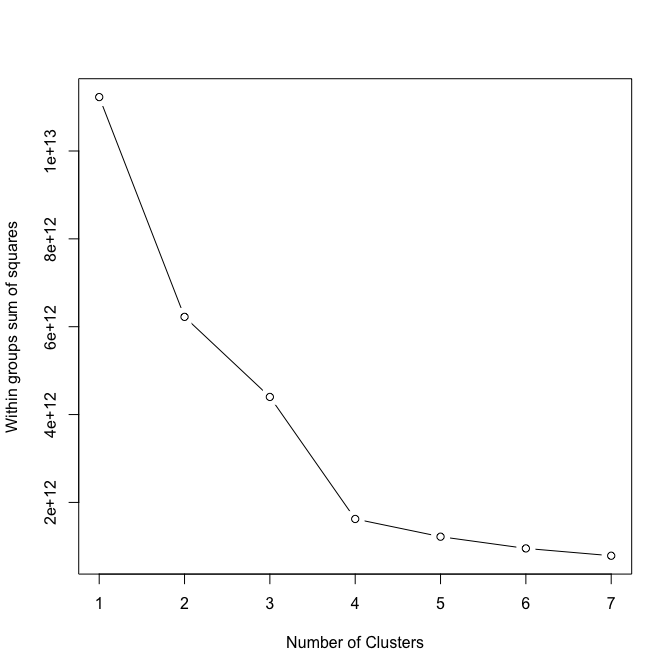
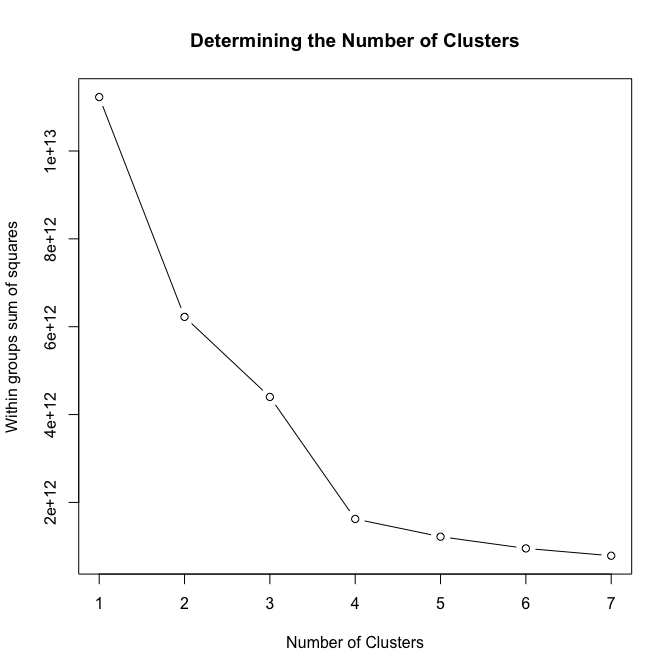
tables programming

Changed region(s): [[0.2812, 0.0312, 0.7812, 0.0938]]

diff --git a/Faculty_Classification.md b/Faculty_Classification.md
@@ -2,18 +2,25 @@ Faculty Classification
 ================
 Chad Evans
 
-Built with R version 3.3.2. Last run on 2017-08-29.
+Built with R version 3.3.2. Last run on 2017-08-30.
 
 -   [Configure](#configure)
     -   Directories
     -   Libraries
 -   [Munge](#munge)
--   [Exploratory Analysis](#exploratory-analysis)
+    -   Subset
     -   Missing Data
+    -   Variables
     -   Imputation
+    -   Data
 -   [Cluster Analysis](#cluster-analysis)
-    -   K-means Clustering Algorithm
--   [Tabulations](#tabulations)
+    -   Determining the Number of Clusters
+    -   K-means Clustering
+-   Tabulations
+    -   [Demography Table](#demography-table)
+    -   [Institution Table](#institution-table)
+    -   [Department Table](#departmental-table)
+    -   [Employment Table](#employment-table)
 
 Configure
 ---------
@@ -29,41 +36,16 @@ source(file.path(Munge, "HERI_vars.R"))
 ```
 
 ``` r
-df<-df %>% select(one_of(c(ADMINVARS,WORKVARS,SALARYVARS,INSTVARS,BACKVARS,ATTITUDEVARS,OTHERVARS,PROFDEVVARS, FACTORVARS, PRODUCTIVITYVARS,STRESSVARS,SATISVARS,PTVARS)))
-
-OMIT<-c(SVYVARS,INSTVARS,DEMGVARS,PTVARS,OTHERS)
-```
-
-``` r
+raw_n<-nrow(df)
 df<-df %>% filter(!(TENURE=="Tenured")) # reduces from 8980 to 8450
+filtered_n<-nrow(df)
+#The original data had `r raw_n` observations.  After removing part-time faculty with Tenure, we have a total of #`r filtered_n`.  This is a decrease of `r (raw_n-filtered_n)/raw_n`.
 ```
-
-``` r
-lwdata<-df %>% select(-one_of(OMIT)) %>% na.omit()
-save(lwdata, file=file.path(Private_Cache,"lwdata.RData"))
-
-#Imputing takes 2-3 hours
-tempData<-df %>% select(-one_of(OMIT)) %>% mice(m=1,maxit=50,meth='pmm',seed=500)
-save(tempData, file=file.path(Private_Cache,"tempData.RData"))
-IData <- complete(tempData,1)
-save(IData, file=file.path(Private_Cache,"IData.RData"))
-```
-
-Data
-----
-
-``` r
-load(file.path(Private_Cache,"IData.RData")) # Singly imputed data
-data<-IData
-```
-
-Exploratory Analysis
---------------------
 
 ### Missing Data
 
 ``` r
-miss_pct<-df %>% select(-one_of(OMIT)) %>%
+miss_pct<-df %>%
   map_dbl(function(x) { round((sum(is.na(x)) / length(x)) * 100, 1) })
 data.frame(miss=miss_pct, var=names(miss_pct), row.names=NULL) %>%
 ggplot(aes(x=reorder(var, -miss), y=miss)) +
@@ -72,19 +54,45 @@ labs(x='', y='% missing', title='Percent missing data by feature') +
 theme(axis.text.x=element_text(angle=90, hjust=1))
 ```
 
+![](graphs/unnamed-chunk-1-1.png)
+
 The missingness in these data is very low. About 20 variables have 3-10 percent missing. The vast majority have trivial amounts of missingness. When applying listwise deletion, 100 percent of observations are lot. This is because there are so many covariates and the missingness really adds up. It is still worth considering listwise deletion. We'll compare the results with a dataset that has been singly imputated, in order to capitalize on all available information. Single imputation is less concerning here because we are not interested in standard errors. We just are trying to induce a classification schema.
 
-Analysis
---------
+``` r
+df<-df %>% select(one_of(c(ADMINVARS,WORKVARS,SALARYVARS,INSTVARS,BACKVARS,ATTITUDEVARS,OTHERVARS,PROFDEVVARS, FACTORVARS, PRODUCTIVITYVARS,STRESSVARS,SATISVARS,PTVARS)))
 
-Determine the number of Clusters.
----------------------------------
+HIGHMISS<-labels(which(miss_pct>50))
+OMIT<-c(ADMINVARS,PTVARS)
+```
 
-I used the "elbow method"
+``` r
+#Imputing takes 2-3 hours
+tempData<-df %>% select(-one_of(OMIT)) %>% mice(m=1,maxit=50,meth='pmm',seed=500)
+#save(tempData, file=file.path(Private_Cache,"tempData.RData"))
+IData <- complete(tempData,1)
+save(IData, file=file.path(Private_Cache,"IData.RData"))
+```
+
+Data
+----
+
+``` r
+load(file.path(Private_Cache,"IDataOLD.RData")) # Singly imputed data
+data<-IData
+```
+
+Cluster Analysis
+----------------
 
 ``` r
 data<-data.frame(model.matrix(~ ., data=data , contrasts.arg = lapply(data[,sapply(data, is.factor)], contrasts, contrasts=FALSE)))
 ```
+
+Some claim it is ineffective to convert categorical predictors into binaries. In any case, that is what we do here. This chapter is purely exploratory, so I am not concerned.
+
+### Determining the number of Clusters.
+
+I used the "elbow method".
 
 ``` r
 wssplot <- function(data, nc=15, seed=1234){
@@ -93,22 +101,21 @@ wssplot <- function(data, nc=15, seed=1234){
     set.seed(seed)
     wss[i] <- sum(kmeans(data, centers=i)$withinss)
   }
-  plot(1:nc, wss, type="b", xlab="Number of Clusters", ylab="Within groups sum of squares")
+  plot(1:nc, wss, type="b", xlab="Number of Clusters", ylab="Within groups sum of squares", main="Determining the Number of Clusters")
 }
-
 wssplot(data, nc=7) # put in # of clusters here
 ```
 
 ![](graphs/Determining_Number_Clusters-1.png)
 
-Cluster Analysis
-----------------
+The elbow plot suggests that four clusters best describe these data. I'll go with four.
 
-For both imputed data and listwise deletion, elbow plots suggests four or five clusters. I'll go with four.
+### K-Means Clustering
 
 ``` r
-# data<-scale(data) CONSIDER WHEATHER TO SCALE
-kmeans.obj<- data %>% kmeans(4, nstart = 20)
+d<-data[,-1] # git rid of the intercept (no variation, convergence issues)
+d<-scale(d)
+kmeans.obj<- d %>% kmeans(4, nstart = 20)
 df$cluster<-kmeans.obj$cluster
 ```
 
@@ -120,16 +127,23 @@ source(file.path(Munge, "03_Recode_HERI.R"))
 ```
 
 ``` r
-table(df$cluster)
+clusters<-table(df$cluster)
+print(clusters)
 ```
 
     ## 
     ##    1    2    3    4 
-    ## 3855   10 1093 4022
+    ## 2558 2242 3213  967
 
 ``` r
-Clusternames<-c("Cluster1 (n=3855)","Cluster2 (n=10)","Cluster3 (n=1093)","Cluster4 (n=4022)")
+C1<-paste("Cluster 1 (n=",clusters[1],")",sep = "")
+C2<-paste("Cluster 2 (n=",clusters[2],")",sep = "")
+C3<-paste("Cluster 3 (n=",clusters[3],")",sep = "")
+C4<-paste("Cluster 4 (n=",clusters[4],")",sep = "")
+Clusternames<-c(C1,C2,C3,C4)
 ```
+
+### Demography Table
 
 ``` r
 DemVars<-c("AGE","SEX","MARITAL2","NCHILD3","RACEGROUP2","GENACT02","NATENGSP","DEGEARN2","DEGWORK2")
@@ -139,21 +153,23 @@ rownames(table)<-c("Age","Male","Married","No Children","One Child","Multiple Ch
 kable(table, caption = "Distribution of Adjunct Clusters by Demographic Characteristics")
 ```
 
-|                     |  Cluster1 (n=3855)|  Cluster2 (n=10)|  Cluster3 (n=1093)|  Cluster4 (n=4022)|
-|---------------------|------------------:|----------------:|------------------:|------------------:|
-| Age                 |              50.56|             50.4|              53.43|              48.28|
-| Male                |               0.48|              0.3|               0.54|               0.41|
-| Married             |               0.78|              0.9|               0.82|               0.76|
-| No Children         |               0.28|              0.3|               0.25|               0.35|
-| One Child           |               0.15|              0.2|               0.13|               0.14|
-| Multiple Children   |               0.57|              0.5|               0.62|               0.51|
-| White               |               0.83|              0.8|               0.86|               0.83|
-| Citizen             |               0.96|              1.0|               0.95|               0.94|
-| Native English      |               0.91|              0.9|               0.91|               0.89|
-| BA or Less          |               0.10|              0.1|               0.06|               0.05|
-| Prof Degree         |               0.70|              0.7|               0.49|               0.59|
-| Ph.D.               |               0.20|              0.2|               0.45|               0.36|
-| Working on a Degree |               0.22|              0.3|               0.12|               0.20|
+|                     |  Cluster 1 (n=2558)|  Cluster 2 (n=2242)|  Cluster 3 (n=3213)|  Cluster 4 (n=967)|
+|---------------------|-------------------:|-------------------:|-------------------:|------------------:|
+| Age                 |               52.14|               47.37|               49.75|              50.27|
+| Male                |                0.51|                0.41|                0.44|               0.45|
+| Married             |                0.80|                0.75|                0.77|               0.79|
+| No Children         |                0.24|                0.39|                0.31|               0.28|
+| One Child           |                0.14|                0.17|                0.14|               0.14|
+| Multiple Children   |                0.63|                0.44|                0.56|               0.57|
+| White               |                0.84|                0.80|                0.85|               0.84|
+| Citizen             |                0.97|                0.93|                0.95|               0.94|
+| Native English      |                0.93|                0.88|                0.90|               0.90|
+| BA or Less          |                0.12|                0.05|                0.06|               0.06|
+| Prof Degree         |                0.75|                0.57|                0.58|               0.56|
+| Ph.D.               |                0.14|                0.38|                0.36|               0.38|
+| Working on a Degree |                0.19|                0.24|                0.20|               0.13|
+
+### Institution Table
 
 ``` r
 INSTVARS<-c("INSTTYPE","INSTCONT","CARNEGIE","BIGLAN","SELECTIVITY2","INSTDESCR03","INSTDESCR08","INSTOPN10","INSTOPN11")
@@ -163,76 +179,81 @@ rownames(table)<-c("2-year","4-year","University","Public","Research I","Researc
 kable(table, caption = "Distribution of Adjunct Clusters by Institutional Characteristics")
 ```
 
-|                                |  Cluster1 (n=3855)|  Cluster2 (n=10)|  Cluster3 (n=1093)|  Cluster4 (n=4022)|
-|--------------------------------|------------------:|----------------:|------------------:|------------------:|
-| 2-year                         |               0.05|             0.00|               0.00|               0.00|
-| 4-year                         |               0.69|             0.80|               0.47|               0.69|
-| University                     |               0.26|             0.20|               0.53|               0.31|
-| Public                         |               0.41|             0.30|               0.27|               0.42|
-| Research I                     |               0.04|             0.00|               0.10|               0.03|
-| Research II                    |               0.14|             0.20|               0.30|               0.18|
-| R3/Doctoral                    |               0.06|             0.00|               0.11|               0.08|
-| Bachelors/Masters              |               0.71|             0.80|               0.46|               0.70|
-| Associates                     |               0.05|             0.00|               0.00|               0.00|
-| Other Inst.                    |               0.00|             0.00|               0.03|               0.01|
-| Hard/Applied                   |               0.33|             0.30|               0.48|               0.31|
-| Hard/Pure                      |               0.02|             0.00|               0.04|               0.04|
-| Soft/Applied                   |               0.20|             0.30|               0.19|               0.18|
-| Soft/Pure                      |               0.39|             0.20|               0.18|               0.38|
-| Other Biglan                   |               0.07|             0.20|               0.12|               0.08|
-| Highly Selective               |               0.04|             0.00|               0.19|               0.12|
-| Faculty very respectful        |               0.57|             0.40|               0.49|               0.51|
-| Administators very considerate |               0.21|             0.20|               0.27|               0.20|
-| Research valued                |               0.61|             0.67|               0.70|               0.67|
-| Teaching valued                |               0.90|             1.00|               0.89|               0.90|
+|                                |  Cluster 1 (n=2558)|  Cluster 2 (n=2242)|  Cluster 3 (n=3213)|  Cluster 4 (n=967)|
+|--------------------------------|-------------------:|-------------------:|-------------------:|------------------:|
+| 2-year                         |                0.05|                0.01|                0.01|               0.00|
+| 4-year                         |                0.69|                0.67|                0.67|               0.58|
+| University                     |                0.26|                0.32|                0.32|               0.42|
+| Public                         |                0.36|                0.48|                0.38|               0.33|
+| Research I                     |                0.03|                0.04|                0.05|               0.07|
+| Research II                    |                0.15|                0.19|                0.18|               0.25|
+| R3/Doctoral                    |                0.06|                0.07|                0.08|               0.09|
+| Bachelors/Masters              |                0.71|                0.67|                0.68|               0.57|
+| Associates                     |                0.05|                0.01|                0.01|               0.00|
+| Other Inst.                    |                0.00|                0.01|                0.01|               0.01|
+| Hard/Applied                   |                0.39|                0.27|                0.35|               0.31|
+| Hard/Pure                      |                0.01|                0.03|                0.05|               0.03|
+| Soft/Applied                   |                0.23|                0.13|                0.18|               0.25|
+| Soft/Pure                      |                0.30|                0.50|                0.35|               0.22|
+| Other Biglan                   |                0.07|                0.06|                0.07|               0.19|
+| Highly Selective               |                0.03|                0.09|                0.14|               0.13|
+| Faculty very respectful        |                0.65|                0.27|                0.65|               0.44|
+| Administators very considerate |                0.26|                0.04|                0.28|               0.27|
+| Research valued                |                0.66|                0.40|                0.81|               0.70|
+| Teaching valued                |                0.95|                0.74|                0.98|               0.86|
+
+### Departmental Table
 
 ``` r
 table<-round(prop.table(table(df$DEPTA, df$cluster),2),2) # DEPTA was aggregated by HERI
 colnames(table)<-Clusternames
-rownames(table)<-c("Agri/Forestry","Biology","Business","Education","Engineering","English","Fine Arts","Health-related","History/PoliSci","Humanities","Math/Stas","Non-technical","Technical","Physical Sciences","Social Sciences")
+rownames(table)<-c("Agri/Forestry","Biology","Business","Education","Engineering","English","Fine Arts","Health-related","History/PoliSci","Humanities","Math/Stats","Non-technical","Technical","Physical Sciences","Social Sciences")
 kable(table, caption = "Distribution of Adjunct Clusters by Departmental Characteristics")
 ```
 
-|                   |  Cluster1 (n=3855)|  Cluster2 (n=10)|  Cluster3 (n=1093)|  Cluster4 (n=4022)|
-|-------------------|------------------:|----------------:|------------------:|------------------:|
-| Agri/Forestry     |               0.00|              0.0|               0.00|               0.01|
-| Biology           |               0.03|              0.0|               0.04|               0.05|
-| Business          |               0.13|              0.0|               0.12|               0.06|
-| Education         |               0.12|              0.2|               0.09|               0.10|
-| Engineering       |               0.02|              0.0|               0.05|               0.01|
-| English           |               0.09|              0.1|               0.03|               0.08|
-| Fine Arts         |               0.10|              0.2|               0.03|               0.08|
-| Health-related    |               0.06|              0.2|               0.21|               0.09|
-| History/PoliSci   |               0.03|              0.0|               0.01|               0.03|
-| Humanities        |               0.07|              0.0|               0.03|               0.10|
-| Math/Stas         |               0.05|              0.0|               0.02|               0.05|
-| Non-technical     |               0.14|              0.3|               0.22|               0.17|
-| Technical         |               0.03|              0.0|               0.03|               0.03|
-| Physical Sciences |               0.02|              0.0|               0.04|               0.04|
-| Social Sciences   |               0.11|              0.0|               0.07|               0.08|
+|                   |  Cluster 1 (n=2558)|  Cluster 2 (n=2242)|  Cluster 3 (n=3213)|  Cluster 4 (n=967)|
+|-------------------|-------------------:|-------------------:|-------------------:|------------------:|
+| Agri/Forestry     |                0.00|                0.01|                0.01|               0.01|
+| Biology           |                0.02|                0.05|                0.04|               0.04|
+| Business          |                0.17|                0.06|                0.08|               0.07|
+| Education         |                0.14|                0.06|                0.11|               0.12|
+| Engineering       |                0.02|                0.02|                0.02|               0.02|
+| English           |                0.06|                0.13|                0.07|               0.04|
+| Fine Arts         |                0.07|                0.13|                0.07|               0.04|
+| Health-related    |                0.07|                0.07|                0.12|               0.14|
+| History/PoliSci   |                0.02|                0.05|                0.03|               0.01|
+| Humanities        |                0.06|                0.11|                0.09|               0.05|
+| Math/Stats        |                0.05|                0.03|                0.06|               0.01|
+| Non-technical     |                0.15|                0.14|                0.15|               0.32|
+| Technical         |                0.04|                0.03|                0.03|               0.02|
+| Physical Sciences |                0.01|                0.03|                0.05|               0.03|
+| Social Sciences   |                0.10|                0.09|                0.09|               0.08|
+
+### Employment Table
 
 ``` r
-WORKVARS<-c("PRINACT2","FULLSTAT","ACADRANK","GENACT01","HEALTHBENEFITS", "RETIREBENEFITS","SALARYALL","COURSENUM")
+WORKVARS<-c("PRINACT2","FULLSTAT","ACADRANK","GENACT01","HEALTHBENEFITS", "RETIREBENEFITS","SALARYALL","COURSENUM","PROFDEVFAC")
 table<-round(nfCrossTable(data=df[WORKVARS],CTvar=df$cluster),2)
 colnames(table)<-Clusternames
-rownames(table)<-c("Teaching","Research","Administration","Other","Full-time","Assistant Professor","Associate Professor","Instructor","Lecturer","Professor","Union member","Health benefits","Retirement","Avg. Salary","Avg. Courses")
+rownames(table)<-c("Teaching","Research","Administration","Other","Full-time","Assistant Professor","Associate Professor","Instructor","Lecturer","Professor","Union member","Health benefits","Retirement","Avg. Salary","Avg. Courses","Prof. Dev. Rating")
 kable(table, caption = "Distribution of Adjunct Clusters by Work Characteristics")
 ```
 
-|                     |  Cluster1 (n=3855)|  Cluster2 (n=10)|  Cluster3 (n=1093)|  Cluster4 (n=4022)|
-|---------------------|------------------:|----------------:|------------------:|------------------:|
-| Teaching            |               0.96|             0.70|               0.65|               0.86|
-| Research            |               0.01|             0.00|               0.06|               0.03|
-| Administration      |               0.01|             0.10|               0.25|               0.06|
-| Other               |               0.02|             0.20|               0.04|               0.05|
-| Full-time           |               0.03|             1.00|               0.96|               0.83|
-| Assistant Professor |               0.07|             0.44|               0.29|               0.30|
-| Associate Professor |               0.04|             0.22|               0.24|               0.07|
-| Instructor          |               0.55|             0.22|               0.10|               0.30|
-| Lecturer            |               0.27|             0.00|               0.19|               0.28|
-| Professor           |               0.07|             0.11|               0.18|               0.05|
-| Union member        |               0.19|             0.10|               0.13|               0.16|
-| Health benefits     |               0.45|             0.90|               0.95|               0.93|
-| Retirement          |               0.49|             0.90|               0.97|               0.92|
-| Avg. Salary         |           11181.20|        631944.40|           89445.56|           47913.02|
-| Avg. Courses        |               2.19|             2.60|               2.15|               2.97|
+|                     |  Cluster 1 (n=2558)|  Cluster 2 (n=2242)|  Cluster 3 (n=3213)|  Cluster 4 (n=967)|
+|---------------------|-------------------:|-------------------:|-------------------:|------------------:|
+| Teaching            |                0.97|                0.96|                0.96|               0.17|
+| Research            |                0.00|                0.02|                0.01|               0.13|
+| Administration      |                0.00|                0.01|                0.00|               0.54|
+| Other               |                0.02|                0.02|                0.03|               0.16|
+| Full-time           |                0.03|                0.50|                0.77|               0.90|
+| Assistant Professor |                0.06|                0.20|                0.29|               0.27|
+| Associate Professor |                0.04|                0.05|                0.09|               0.19|
+| Instructor          |                0.61|                0.36|                0.25|               0.27|
+| Lecturer            |                0.21|                0.36|                0.27|               0.14|
+| Professor           |                0.07|                0.04|                0.08|               0.14|
+| Union member        |                0.15|                0.25|                0.16|               0.09|
+| Health benefits     |                0.27|                0.87|                0.92|               0.96|
+| Retirement          |                0.31|                0.86|                0.93|               0.97|
+| Avg. Salary         |            11485.77|            35342.05|            50157.19|           73218.24|
+| Avg. Courses        |                1.86|                3.20|                3.04|               1.13|
+| Prof. Dev. Rating   |               -0.37|               -0.06|                0.23|               0.36|
